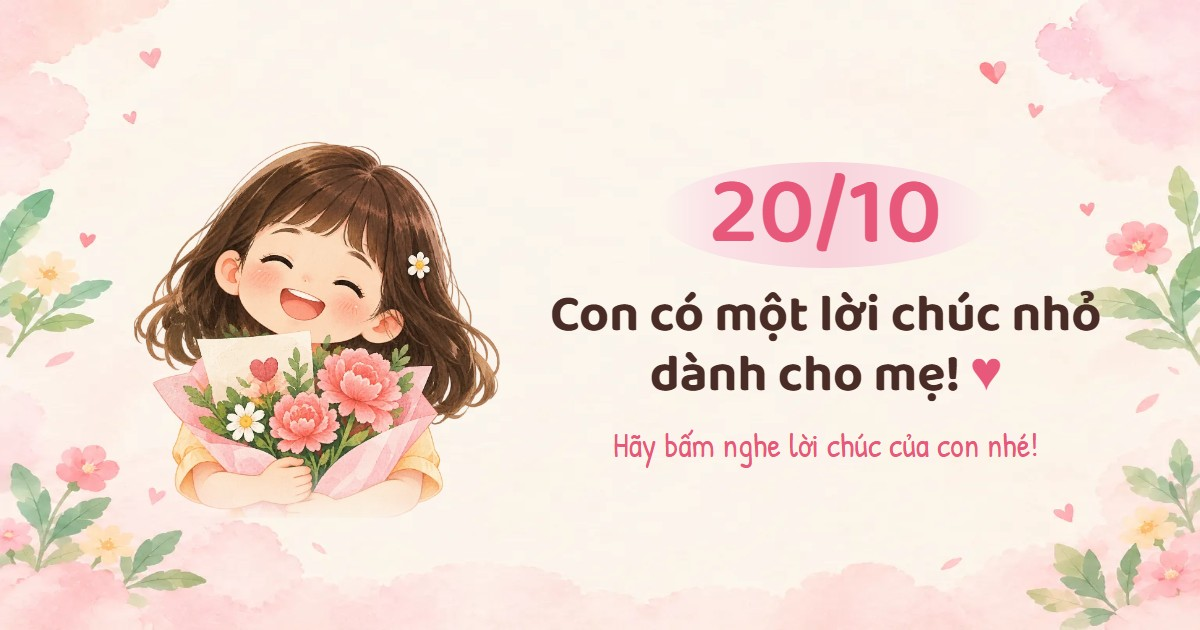
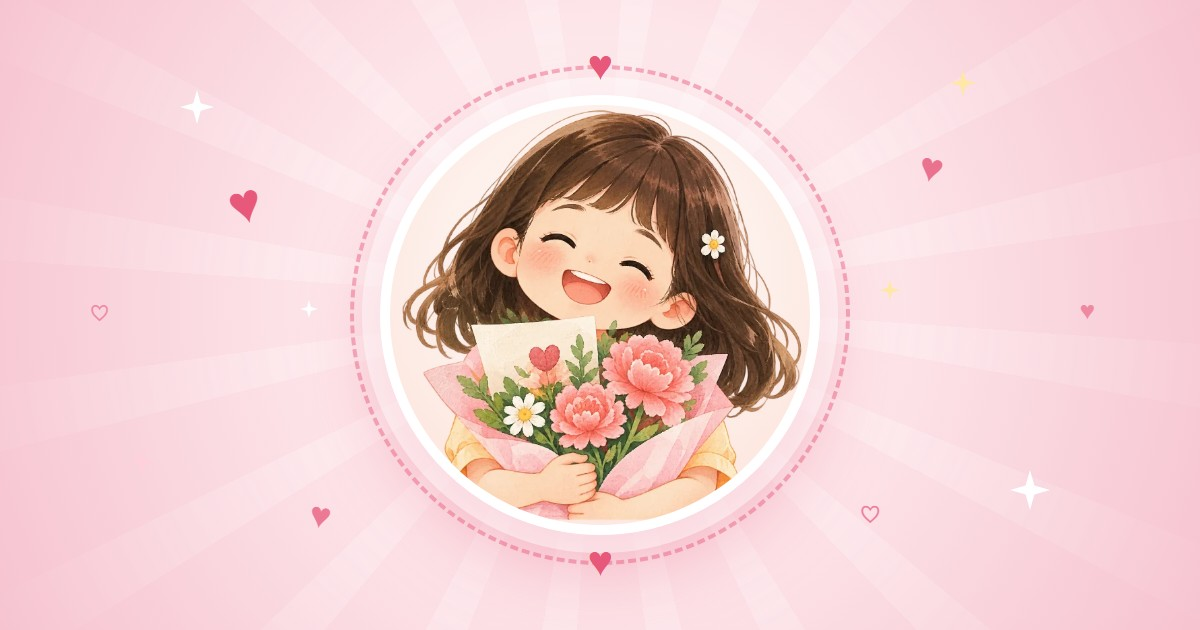
Polish intro splash and fix link previews
- Intro: drop the 20/10 line, only "Tấn Phát" in pink, doodles
  (ring, hearts, stars, dashed loop) pop in around the avatar,
  glossy "Mở lời chúc" button with heart, arrow and side sparkles
- Link preview: new title "Con, Tấn Phát, có một lời chúc nhỏ dành
  cho mẹ", avatar-style og-image, absolute og/twitter URLs,
  canonical, og:url, sitemap.xml and robots Sitemap line

diff --git a/public/index.html b/public/index.html
@@ -4,8 +4,9 @@
 <head>
   <meta charset="utf-8">
   <meta name="viewport" content="width=device-width, initial-scale=1">
-  <title>Lời chúc nhỏ gửi mẹ yêu – Thiệp 20/10 có lời chúc ghi âm</title>
+  <title>Con, Tấn Phát, có một lời chúc nhỏ dành cho mẹ – Thiệp 20/10</title>
   <meta name="description" content="Thiệp 20/10 con gửi mẹ: nghe lời chúc ghi âm hồn nhiên, trong trẻo của con – “Mẹ ơi, con chúc mẹ luôn khỏe mạnh, luôn vui vẻ và mãi là người mẹ tuyệt vời nhất!”">
+  <link rel="canonical" href="https://loi-chuc-gui-me.nghiadt.workers.dev/">
   <meta name="robots" content="index, follow, max-image-preview:large">
   <meta name="author" content="Con của mẹ">
   <meta name="theme-color" content="#f8d3db">
@@ -16,19 +17,21 @@
   <meta property="og:type" content="website">
   <meta property="og:locale" content="vi_VN">
   <meta property="og:site_name" content="Lời chúc nhỏ">
-  <meta property="og:title" content="Con có một lời chúc nhỏ dành cho mẹ! ♥">
+  <meta property="og:title" content="Con, Tấn Phát, có một lời chúc nhỏ dành cho mẹ ♥">
+  <meta property="og:url" content="https://loi-chuc-gui-me.nghiadt.workers.dev/">
   <meta property="og:description" content="Mẹ ơi, hãy bấm nghe lời chúc 20/10 con ghi âm tặng mẹ nhé!">
-  <meta property="og:image" content="images/og-image.jpg">
+  <meta property="og:image" content="https://loi-chuc-gui-me.nghiadt.workers.dev/images/og-image.jpg?v=2">
+  <meta property="og:image:secure_url" content="https://loi-chuc-gui-me.nghiadt.workers.dev/images/og-image.jpg?v=2">
   <meta property="og:image:type" content="image/jpeg">
   <meta property="og:image:width" content="1200">
   <meta property="og:image:height" content="630">
-  <meta property="og:image:alt" content="Bé gái ôm bó hoa cẩm chướng cùng dòng chữ 20/10 – Con có một lời chúc nhỏ dành cho mẹ!">
+  <meta property="og:image:alt" content="Ảnh bé Tấn Phát cười tươi ôm bó hoa cẩm chướng tặng mẹ">
 
   <!-- Twitter / X -->
   <meta name="twitter:card" content="summary_large_image">
-  <meta name="twitter:title" content="Con có một lời chúc nhỏ dành cho mẹ! ♥">
+  <meta name="twitter:title" content="Con, Tấn Phát, có một lời chúc nhỏ dành cho mẹ ♥">
   <meta name="twitter:description" content="Mẹ ơi, hãy bấm nghe lời chúc 20/10 con ghi âm tặng mẹ nhé!">
-  <meta name="twitter:image" content="images/og-image.jpg">
+  <meta name="twitter:image" content="https://loi-chuc-gui-me.nghiadt.workers.dev/images/og-image.jpg?v=2">
 
   <!-- Icons -->
   <link rel="icon" href="favicon.svg" type="image/svg+xml">
@@ -42,15 +45,16 @@
     "@context": "https://schema.org",
     "@type": "WebPage",
     "name": "Lời chúc nhỏ gửi mẹ yêu",
-    "headline": "Con có một lời chúc nhỏ dành cho mẹ!",
+    "headline": "Con, Tấn Phát, có một lời chúc nhỏ dành cho mẹ!",
     "description": "Thiệp 20/10 con gửi mẹ kèm lời chúc ghi âm.",
     "inLanguage": "vi",
-    "image": "images/og-image.jpg",
+    "url": "https://loi-chuc-gui-me.nghiadt.workers.dev/",
+    "image": "https://loi-chuc-gui-me.nghiadt.workers.dev/images/og-image.jpg",
     "about": { "@type": "Event", "name": "Ngày Phụ nữ Việt Nam 20/10", "startDate": "2026-10-20" },
     "mainEntity": {
       "@type": "AudioObject",
       "name": "Lời chúc 20/10 gửi mẹ",
-      "contentUrl": "audio/loi-chuc.m4a",
+      "contentUrl": "https://loi-chuc-gui-me.nghiadt.workers.dev/audio/loi-chuc.m4a",
       "encodingFormat": "audio/mp4",
       "duration": "PT8S",
       "inLanguage": "vi",
@@ -79,13 +83,45 @@
     <div class="intro__hearts" id="introHearts" aria-hidden="true"></div>
     <div class="intro__content" id="introContent">
       <div class="intro__portrait" data-i>
-        <span class="intro__ring" aria-hidden="true"></span>
         <img src="images/be-gai.webp" width="760" height="624" alt="">
+        <!-- Doodles around the avatar (portrait circle = 50..250 in this box) -->
+        <svg class="intro__deco" viewBox="0 0 300 300" aria-hidden="true">
+          <defs>
+            <symbol id="hh" viewBox="0 0 24 22"><path d="M12 20.5S3 14.9 3 8.6A4.6 4.6 0 0 1 12 6.4a4.6 4.6 0 0 1 9 2.2c0 6.3-9 11.9-9 11.9z"/></symbol>
+            <symbol id="star" viewBox="0 0 20 20"><path d="M10 0l2.2 7.8L20 10l-7.8 2.2L10 20l-2.2-7.8L0 10l7.8-2.2z"/></symbol>
+          </defs>
+          <circle class="deco-ring" cx="150" cy="150" r="113"/>
+          <g class="deco"><use href="#hh" x="139" y="26" width="22" height="20" class="fill"/></g>
+          <g class="deco"><use href="#hh" x="14" y="92" width="26" height="24" class="line" transform="rotate(-16 27 104)"/></g>
+          <g class="deco"><use href="#hh" x="30" y="200" width="16" height="15" class="fill soft"/></g>
+          <g class="deco"><use href="#hh" x="14" y="168" width="10" height="9" class="fill soft"/></g>
+          <g class="deco">
+            <use href="#hh" x="256" y="116" width="30" height="27" class="fill" transform="rotate(14 271 130)"/>
+            <path class="stroke" d="M262 158l-5 10M272 160l-2 9M281 154l2 8"/>
+          </g>
+          <g class="deco">
+            <use href="#hh" x="240" y="30" width="26" height="24" class="line"/>
+            <path class="stroke" d="M253 22v-9M241 26l-6-6M265 26l6-6M235 38h-8M271 38h8"/>
+          </g>
+          <g class="deco"><use href="#star" x="52" y="38" width="16" height="16" class="gold"/></g>
+          <g class="deco"><use href="#star" x="262" y="214" width="10" height="10" class="gold"/></g>
+          <g class="deco">
+            <path class="stroke dashed" d="M196 286c30 4 58-6 66-26 6-15-8-24-17-14-8 9 4 22 20 18 14-4 22-16 24-28"/>
+            <use href="#hh" x="281" y="224" width="16" height="15" class="line"/>
+          </g>
+        </svg>
       </div>
-      <p class="intro__date" data-i>20/10</p>
       <h2 class="intro__title" id="introTitle">Một lời chúc nhỏ</h2>
-      <p class="intro__from" data-i>của bé Tấn Phát gửi mẹ yêu</p>
-      <button class="intro__open" id="introOpen" type="button" data-i>Mở lời chúc <span aria-hidden="true">♥</span></button>
+      <p class="intro__from" data-i>của bé <span class="intro__nick">Tấn Phát</span> gửi mẹ yêu</p>
+      <span class="intro__cta" data-i>
+        <svg class="intro__burst" viewBox="0 0 40 40" aria-hidden="true"><path d="M30 14l-8-8M28 20H15M30 26l-8 8"/></svg>
+        <button class="intro__open" id="introOpen" type="button">
+          <svg class="intro__open-heart" viewBox="0 0 24 22" aria-hidden="true"><path d="M12 20.5S3 14.9 3 8.6A4.6 4.6 0 0 1 12 6.4a4.6 4.6 0 0 1 9 2.2c0 6.3-9 11.9-9 11.9z"/></svg>
+          <span>Mở lời chúc</span>
+          <svg class="intro__open-arrow" viewBox="0 0 24 24" aria-hidden="true"><path d="M5 12h13M13 6l6 6-6 6"/></svg>
+        </button>
+        <svg class="intro__burst intro__burst--r" viewBox="0 0 40 40" aria-hidden="true"><path d="M30 14l-8-8M28 20H15M30 26l-8 8"/></svg>
+      </span>
     </div>
   </div>
 

diff --git a/public/style.css b/public/style.css
@@ -436,7 +436,7 @@ html.intro-open body { overflow: hidden; }
 
 .intro__portrait {
   position: relative;
-  width: clamp(150px, 42vw, 200px);
+  width: clamp(170px, 48vw, 230px);
   aspect-ratio: 1;
   border-radius: 50%;
   background: radial-gradient(circle at 50% 40%, #fff 0%, #fde9e2 70%);
@@ -452,35 +452,25 @@ html.intro-open body { overflow: hidden; }
   object-fit: cover;
   object-position: 50% 30%;
 }
-.intro__ring {
+/* Doodles around the avatar: the SVG box is 1.5× the portrait */
+.intro__deco {
   position: absolute;
-  inset: -18px;
-  border-radius: 50%;
-  border: 2px dashed rgba(232, 88, 122, .45);
-  animation: spin 18s linear infinite;
+  inset: -25%;
+  width: 150%; height: 150%;
+  overflow: visible;
+  pointer-events: none;
 }
-.intro__ring::before,
-.intro__ring::after {
-  content: "♥";
-  position: absolute;
-  color: var(--rose);
-  font-size: 18px;
-  line-height: 1;
-}
-.intro__ring::before { top: -10px; left: 50%; translate: -50% 0; }
-.intro__ring::after { bottom: -10px; left: 50%; translate: -50% 0; }
-
-.intro__date {
-  margin-top: 28px;
-  font-family: "Fz Donsky", var(--f-title);
-  font-size: clamp(2rem, 9vw, 2.8rem);
-  line-height: 1;
-  color: var(--rose);
-}
+.intro__deco .deco-ring { fill: none; stroke: #f2a2b5; stroke-width: 1.6; }
+.intro__deco .fill { fill: var(--rose); }
+.intro__deco .fill.soft { fill: #f39ab0; }
+.intro__deco .line { fill: none; stroke: var(--rose); stroke-width: 2; }
+.intro__deco .gold { fill: #f5c45e; }
+.intro__deco .stroke { fill: none; stroke: var(--rose); stroke-width: 2.2; stroke-linecap: round; }
+.intro__deco .dashed { stroke-width: 1.6; stroke-dasharray: 4 5; opacity: .8; }
 
 /* Title with a light sweep running across the letters */
 .intro__title {
-  margin-top: 6px;
+  margin-top: 40px;
   font-family: var(--f-display);
   font-weight: 400;
   font-variant-ligatures: none;
@@ -502,27 +492,83 @@ html.intro-open body { overflow: hidden; }
   font-family: "Fz Yustine Signature", var(--f-hand);
   font-size: clamp(1.7rem, 7vw, 2.2rem);
   -webkit-text-stroke: .5px currentColor;
-  color: var(--rose);
+  color: var(--ink-soft);
 }
+.intro__nick { color: var(--rose); }
+
+/* Glossy pill button with side sparkle strokes */
+.intro__cta {
+  margin-top: 28px;
+  display: inline-flex;
+  align-items: center;
+  gap: 6px;
+}
+.intro__burst {
+  width: 34px; height: 34px;
+  fill: none;
+  stroke: var(--rose);
+  stroke-width: 2.4;
+  stroke-linecap: round;
+}
+.intro__burst--r { scale: -1 1; }
 
 .intro__open {
-  margin-top: 30px;
-  padding: 14px 30px;
-  border: 0;
+  position: relative;
+  display: inline-flex;
+  align-items: center;
+  gap: 10px;
+  padding: 13px 26px 13px 22px;
+  border: 3px solid #fff4f6;
   border-radius: 999px;
-  background: linear-gradient(135deg, #f0708f, var(--rose-deep));
+  background: linear-gradient(180deg, #f9879f 0%, #ee6385 48%, #db4670 100%);
   color: #fff;
   font-family: var(--f-body);
-  font-weight: 600;
-  font-size: 1.05rem;
+  font-weight: 700;
+  font-size: 1.1rem;
   letter-spacing: .02em;
+  text-shadow: 0 1px 1px rgba(150, 30, 70, .35);
   cursor: pointer;
-  box-shadow: 0 10px 26px rgba(217, 68, 106, .4);
+  overflow: hidden;
+  box-shadow:
+    0 0 0 4px rgba(232, 88, 122, .22),
+    inset 0 2px 1px rgba(255, 255, 255, .55),
+    inset 0 -4px 8px rgba(150, 25, 70, .28),
+    0 12px 26px rgba(217, 68, 106, .42);
   animation: pulse 1.8s ease-out infinite;
 }
-.intro__open span { display: inline-block; margin-left: 4px; }
-.intro__open:hover { filter: brightness(1.05); }
-.intro__open:focus-visible { outline: 3px solid #fff; outline-offset: 3px; }
+/* Glass highlight on the top half */
+.intro__open::before {
+  content: "";
+  position: absolute;
+  left: 10px; right: 10px; top: 3px;
+  height: 46%;
+  border-radius: 999px;
+  background: linear-gradient(180deg, rgba(255, 255, 255, .6), rgba(255, 255, 255, .08));
+  pointer-events: none;
+}
+/* Shine sweeping across */
+.intro__open::after {
+  content: "";
+  position: absolute;
+  top: -20%; bottom: -20%;
+  width: 40%;
+  left: -60%;
+  background: linear-gradient(100deg, transparent, rgba(255, 255, 255, .55), transparent);
+  rotate: 12deg;
+  animation: sweep 2.8s ease-in-out 3s infinite;
+  pointer-events: none;
+}
+.intro__open > * { position: relative; }
+.intro__open-heart { width: 20px; height: 18px; fill: #fff; filter: drop-shadow(0 1px 1px rgba(150, 30, 70, .3)); }
+.intro__open-arrow { width: 20px; height: 20px; fill: none; stroke: #fff; stroke-width: 2.6; stroke-linecap: round; stroke-linejoin: round; }
+.intro__open:hover { filter: brightness(1.06) saturate(1.05); }
+.intro__open:active { translate: 0 1px; }
+.intro__open:focus-visible { outline: 3px solid #fff; outline-offset: 4px; }
+
+@keyframes sweep {
+  0% { left: -60%; }
+  45%, 100% { left: 130%; }
+}
 
 @keyframes spin { to { rotate: 360deg; } }
 @keyframes twinkle {
@@ -542,8 +588,8 @@ html.intro-open body { overflow: hidden; }
   60%, 100% { background-position: 0 0; }
 }
 @keyframes pulse {
-  0% { box-shadow: 0 10px 26px rgba(217, 68, 106, .4), 0 0 0 0 rgba(232, 88, 122, .45); }
-  100% { box-shadow: 0 10px 26px rgba(217, 68, 106, .4), 0 0 0 22px rgba(232, 88, 122, 0); }
+  0% { box-shadow: 0 0 0 4px rgba(232, 88, 122, .22), inset 0 2px 1px rgba(255, 255, 255, .55), inset 0 -4px 8px rgba(150, 25, 70, .28), 0 12px 26px rgba(217, 68, 106, .42), 0 0 0 4px rgba(232, 88, 122, .4); }
+  100% { box-shadow: 0 0 0 4px rgba(232, 88, 122, .22), inset 0 2px 1px rgba(255, 255, 255, .55), inset 0 -4px 8px rgba(150, 25, 70, .28), 0 12px 26px rgba(217, 68, 106, .42), 0 0 0 24px rgba(232, 88, 122, 0); }
 }
 
 .anim .intro [data-i],

diff --git a/public/script.js b/public/script.js
@@ -590,12 +590,27 @@
     const portrait = $(".intro__portrait");
     animate(portrait, { opacity: [0, 1], scale: [0.2, 1], rotate: [-25, 0] }, { ...spring(0.5, 1.1), delay: 0.2 });
     setTimeout(() => { if (!introClosed) burst(portrait, 14); }, 650);
-    animate(".intro__date", { opacity: [0, 1], y: [24, 0], scale: [0.6, 1] }, { ...spring(0.55, 0.8), delay: 0.7 });
+    // Doodles around the avatar pop in one by one, then drift gently
+    const ring = $(".intro__deco .deco-ring");
+    ring.setAttribute("pathLength", "1");
+    ring.style.strokeDasharray = "1";
+    ring.style.strokeDashoffset = "1";
+    animate(1, 0, { duration: 1, delay: 0.5, ease: "easeInOut", onUpdate: (v) => { ring.style.strokeDashoffset = String(v); } });
+    const decos = $$(".intro__deco .deco");
+    decos.forEach((d, i) => {
+      d.style.transformBox = "fill-box";
+      d.style.transformOrigin = "center";
+      animate(d, { opacity: [0, 1], scale: [0, 1] }, { ...spring(0.6, 0.7), delay: 0.7 + i * 0.09 });
+      animate(d, { y: [0, i % 2 ? -4 : 4], rotate: [0, i % 2 ? 6 : -6] }, loop(1.6 + (i % 3) * 0.5, { delay: 1.6 + i * 0.1 }));
+    });
+
     animate(titleChars, { opacity: [0, 1], y: [30, 0], rotate: [-12, 0], filter: ["blur(8px)", "blur(0px)"] },
       { duration: 0.6, ease: [0.22, 1, 0.36, 1], delay: stagger(0.06, { startDelay: 0.95 }) });
     animate(".intro__from", { opacity: [0, 1], y: [16, 0] }, { duration: 0.8, delay: 1.9, ease: "easeOut" });
-    animate(introOpen, { opacity: [0, 1], scale: [0.4, 1] }, { ...spring(0.6, 0.8), delay: 2.5 });
-    animate(".intro__open span", { scale: [1, 1.35, 1] }, { duration: 0.9, repeat: Infinity, delay: 3.2 });
+    animate(".intro__cta", { opacity: [0, 1], scale: [0.4, 1] }, { ...spring(0.6, 0.8), delay: 2.5 });
+    animate(".intro__open-heart", { scale: [1, 1.3, 1, 1.15, 1] }, { duration: 1.1, repeat: Infinity, repeatDelay: 0.3, delay: 3.2 });
+    animate(".intro__open-arrow", { x: [0, 4] }, loop(0.6, { delay: 3.2 }));
+    animate(".intro__burst", { opacity: [1, 0.35], scale: [1, 0.85] }, loop(0.8, { delay: 3 }));
   }
   setTimeout(() => { if (!introClosed) introOpen.focus({ preventScroll: true }); }, useMotion ? 2600 : 0);
 
